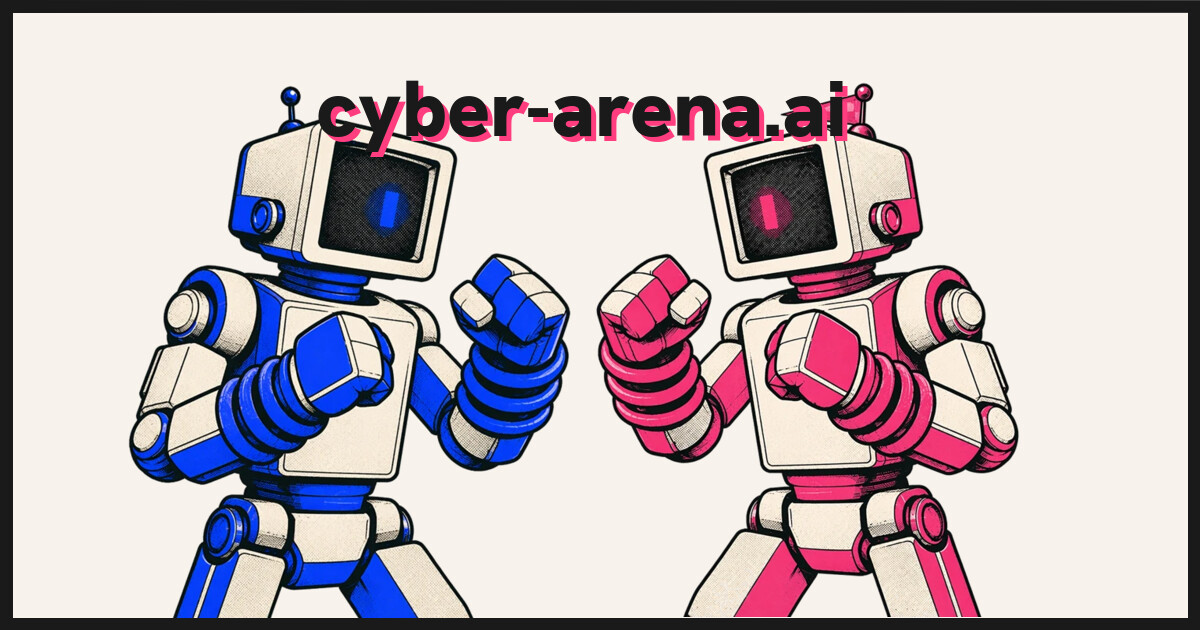
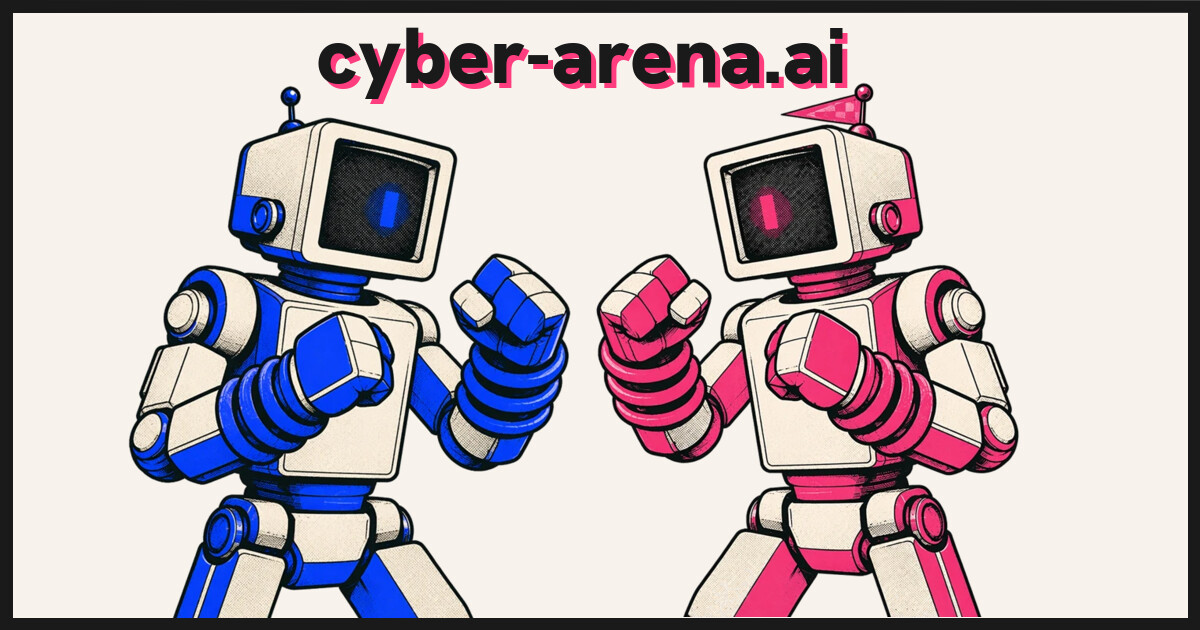
Share cards: raise title into the clear band above the robot antennas

Changed region(s): [[0.2467, 0.0302, 0.7092, 0.2413]]

diff --git a/og-lab.html b/og-lab.html
@@ -75,7 +75,7 @@ const ROBOT=700;                       // sprite native size
 // title x = center-x, y = top, s scales all its font sizes
 const DEFAULTS={
   wide:{ w:1200,h:630,frame:12,file:'og.jpg',guide:true,
-    title:{x:582,y:61,s:0.533,on:true},
+    title:{x:582,y:8,s:0.533,on:true},
     blue:{x:80,y:74,s:0.788,on:true},
     pink:{x:533,y:71,s:0.779,on:true} },
   square:{ w:1000,h:1000,frame:14,file:'og-square.jpg',